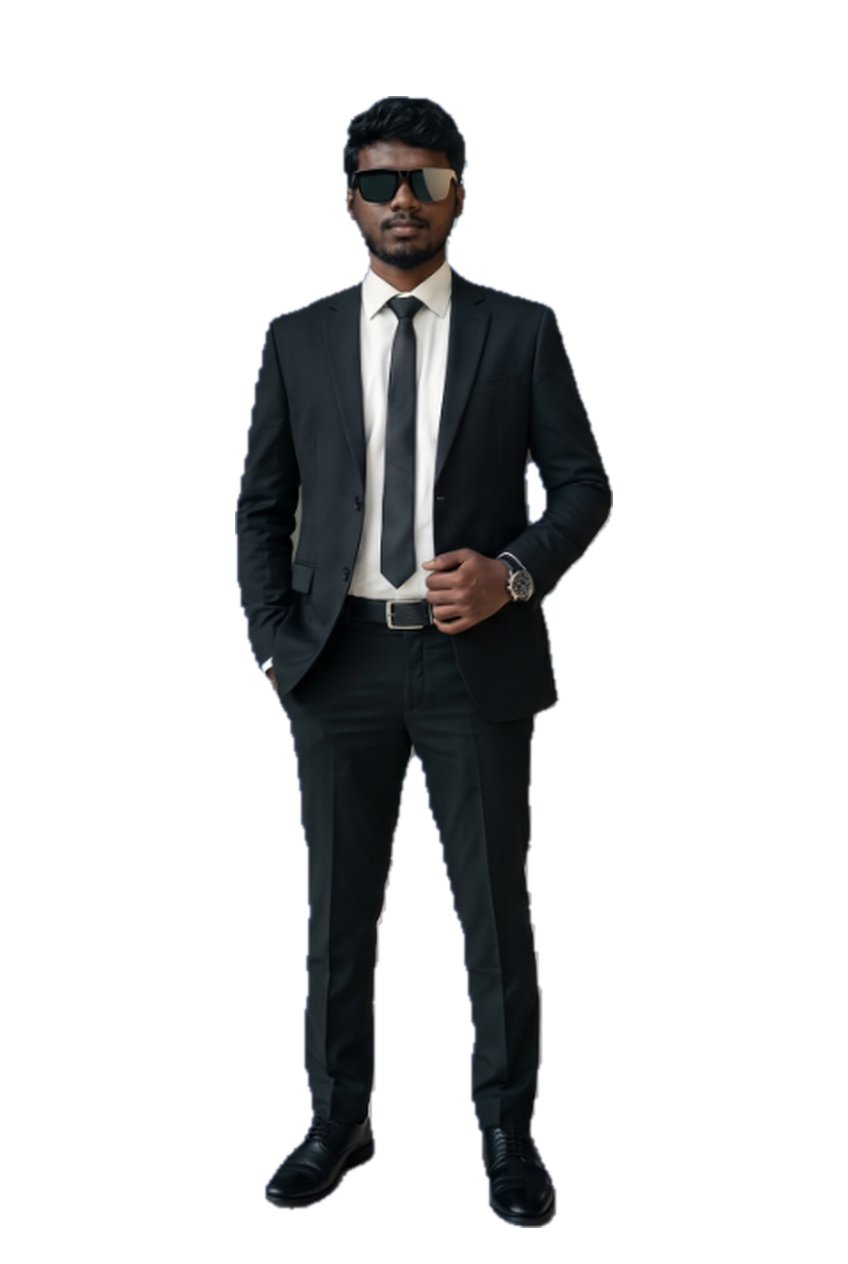
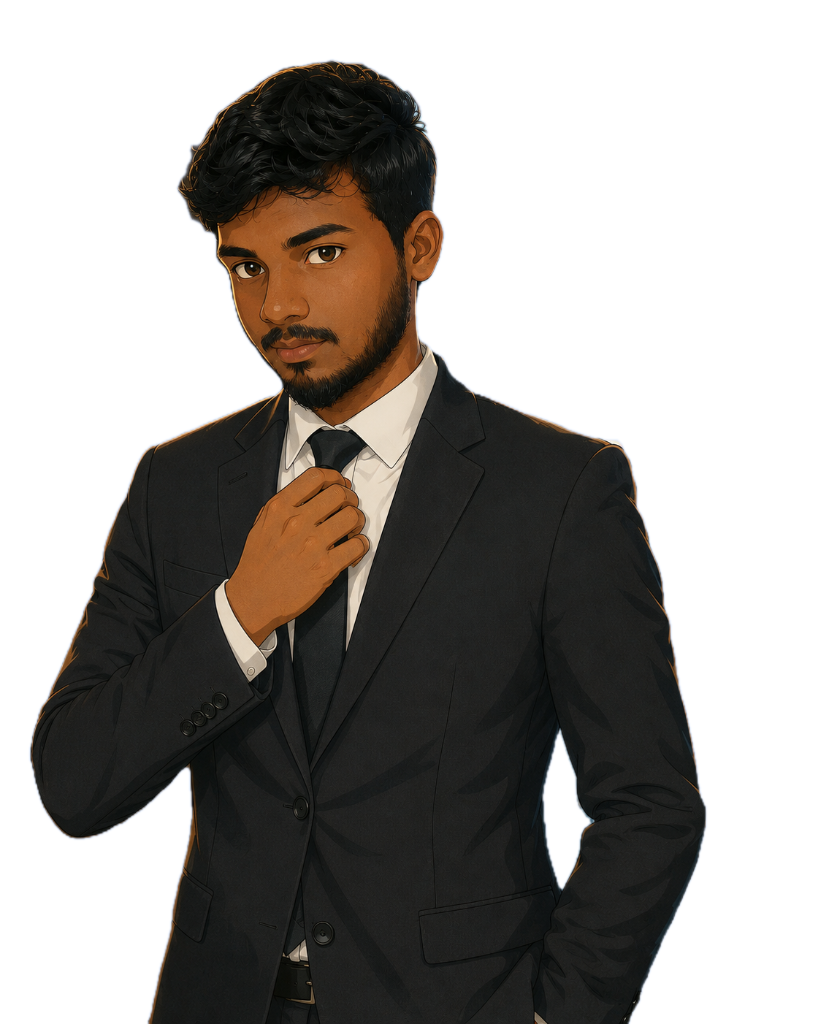
add certificate

diff --git a/sections/Projects.tsx b/sections/Projects.tsx
@@ -2,33 +2,73 @@
 
 import React from 'react';
 import { motion } from 'framer-motion';
-import { ExternalLink, MessageSquare, QrCode, Calculator } from 'lucide-react';
+import { ExternalLink, MessageSquare, QrCode, Calculator, Film, Play, Clock, Waves, GraduationCap, Laptop } from 'lucide-react';
 import { FaGithub } from 'react-icons/fa';
 
 const PROJECTS = [
   {
-    title: 'AI Chatbot for Student Support',
-    desc: 'AI-powered assistant that helps students with instant answers, resources and guidance.',
-    tags: ['Next.js', 'OpenAI API', 'Tailwind CSS'],
-    liveHref: '#',
+    title: 'Student AI Chatbot',
+    desc: 'Conversational AI agent for students, offering quick guidance, reference search, and study guides.',
+    tags: ['Next.js', 'OpenAI API', 'Framer Motion'],
+    liveHref: 'https://thoughtful-text-bot.lovable.app',
     githubHref: 'https://github.com/vikky0076',
     previewType: 'chat',
   },
   {
     title: 'Smart Attendance System',
-    desc: 'QR-based attendance system with location verification and real-time reporting.',
+    desc: 'QR-based smart attendance tracker with secure location verification and real-time statistics.',
     tags: ['React', 'Node.js', 'MongoDB'],
-    liveHref: '#',
+    liveHref: 'https://sas-smart.vercel.app',
     githubHref: 'https://github.com/vikky0076',
     previewType: 'qr',
   },
   {
     title: 'CGPA Calculator',
-    desc: 'Simple and fast CGPA calculator for university students with beautiful UI.',
+    desc: 'Simple and fast CGPA calculator for university students with a beautiful, responsive user interface.',
     tags: ['HTML', 'CSS', 'JavaScript'],
-    liveHref: '#',
+    liveHref: 'https://novyrax-cgpa-calci.vercel.app/',
     githubHref: 'https://github.com/vikky0076',
     previewType: 'calc',
+  },
+  {
+    title: 'Chess Clock System',
+    desc: 'Dynamic digital chess timer supporting custom time controls, delays, and intuitive player controls.',
+    tags: ['React', 'Tailwind CSS', 'Framer Motion'],
+    liveHref: 'https://chess-clock-silk.vercel.app/',
+    githubHref: 'https://github.com/vikky0076',
+    previewType: 'chess',
+  },
+  {
+    title: 'Flood Safe AI System',
+    desc: 'Advanced AI model predicting and warning against flood risks based on hydrological sensor data.',
+    tags: ['Python', 'Machine Learning', 'Next.js'],
+    liveHref: 'https://floot-safe-ai.netlify.app/',
+    githubHref: 'https://github.com/vikky0076',
+    previewType: 'flood',
+  },
+  {
+    title: 'Skillora Learning Website',
+    desc: 'Feature-rich, interactive e-learning platform providing course directories and custom assessments.',
+    tags: ['Next.js', 'Tailwind CSS', 'Firebase'],
+    liveHref: 'https://skilloralearn.vercel.app/',
+    githubHref: 'https://github.com/vikky0076',
+    previewType: 'skillora',
+  },
+  {
+    title: 'Dreams Cut Production Portfolio',
+    desc: 'Highly stylized company showcase website representing a digital production agency.',
+    tags: ['HTML', 'Tailwind CSS', 'JavaScript'],
+    liveHref: 'https://dreamscutproduction.netlify.app/',
+    githubHref: 'https://github.com/vikky0076',
+    previewType: 'dcp',
+  },
+  {
+    title: 'Dynamic & Static Portfolios',
+    desc: 'A repository of interactive responsive developer profiles and single-page landing site layouts.',
+    tags: ['HTML', 'CSS', 'JavaScript'],
+    liveHref: 'https://vikky5376.github.io/portpolio/',
+    githubHref: 'https://github.com/vikky0076',
+    previewType: 'portfolios',
   },
 ];
 
@@ -87,6 +127,113 @@ export default function Projects() {
             </div>
           </div>
         );
+      case 'dcp':
+        return (
+          <div className="w-full h-full bg-secondary/50 rounded-xl border border-white/5 p-3 flex flex-col justify-between overflow-hidden relative">
+            <div className="flex justify-between items-center">
+              <span className="text-[8px] font-bold font-display text-accent uppercase tracking-wider">Dreams Cut Production</span>
+              <Film size={10} className="text-accent" />
+            </div>
+            <div className="flex items-center justify-center gap-4 py-2">
+              <div className="w-8 h-8 rounded-full bg-accent/15 border border-accent/20 flex items-center justify-center text-accent animate-pulse">
+                <Play size={12} fill="currentColor" className="ml-0.5" />
+              </div>
+              <div className="flex flex-col gap-1">
+                <span className="text-[7px] text-white font-semibold">Active Timeline</span>
+                <span className="text-[6px] text-text-secondary">Render: 4K UHD</span>
+              </div>
+            </div>
+            <div className="flex justify-between items-center text-[6px] text-text-secondary">
+              <span>02:14 / 05:00</span>
+              <div className="w-16 h-1 bg-primary rounded-full overflow-hidden">
+                <div className="h-full bg-accent w-[45%]" />
+              </div>
+            </div>
+          </div>
+        );
+      case 'chess':
+        return (
+          <div className="w-full h-full bg-secondary/50 rounded-xl border border-white/5 p-3 flex flex-col justify-between overflow-hidden relative">
+            <div className="flex justify-between items-center border-b border-white/5 pb-1">
+              <span className="text-[8px] font-bold font-display text-white">CHESS TIMERS</span>
+              <Clock size={10} className="text-accent" />
+            </div>
+            <div className="grid grid-cols-2 gap-2 items-center justify-center py-2 text-center">
+              <div className="bg-primary/60 border border-accent/20 rounded-lg p-1.5 flex flex-col">
+                <span className="text-[6px] text-accent uppercase tracking-widest font-bold">White</span>
+                <span className="text-sm font-extrabold font-mono text-white">05:00</span>
+              </div>
+              <div className="bg-accent/10 border border-accent/40 rounded-lg p-1.5 flex flex-col animate-pulse">
+                <span className="text-[6px] text-accent uppercase tracking-widest font-bold">Black</span>
+                <span className="text-sm font-extrabold font-mono text-accent">04:52</span>
+              </div>
+            </div>
+            <span className="text-[6px] text-text-secondary text-center uppercase tracking-widest">Active Turn: Black</span>
+          </div>
+        );
+      case 'flood':
+        return (
+          <div className="w-full h-full bg-secondary/50 rounded-xl border border-white/5 p-3 flex flex-col justify-between overflow-hidden relative">
+            <div className="flex justify-between items-center">
+              <span className="text-[8px] font-bold font-display text-emerald-400 uppercase tracking-wider">Flood Safe AI</span>
+              <Waves size={10} className="text-emerald-400" />
+            </div>
+            <div className="flex flex-col gap-1 items-center justify-center py-1">
+              <span className="text-xl font-extrabold font-display text-emerald-400 glow-emerald">SAFE</span>
+              <span className="text-[6px] uppercase tracking-widest text-text-secondary">Water Level: 1.2m</span>
+            </div>
+            <div className="flex justify-between items-center text-[6px] text-text-secondary">
+              <span>Risk Level: 5%</span>
+              <div className="w-16 h-1 bg-primary rounded-full overflow-hidden">
+                <div className="h-full bg-emerald-500 w-[5%]" />
+              </div>
+            </div>
+          </div>
+        );
+      case 'skillora':
+        return (
+          <div className="w-full h-full bg-secondary/50 rounded-xl border border-white/5 p-3 flex flex-col justify-between overflow-hidden relative">
+            <div className="flex justify-between items-center border-b border-white/5 pb-1">
+              <span className="text-[8px] font-bold font-display text-white">Skillora LMS</span>
+              <GraduationCap size={10} className="text-accent" />
+            </div>
+            <div className="flex flex-col gap-1.5 py-1 text-left">
+              <div className="flex justify-between text-[7px] text-text-secondary font-semibold">
+                <span>React Advanced Course</span>
+                <span className="text-accent font-bold">85% Done</span>
+              </div>
+              <div className="w-full h-1 bg-primary rounded-full overflow-hidden">
+                <div className="h-full bg-accent w-[85%]" />
+              </div>
+            </div>
+            <div className="flex items-center gap-1.5 bg-primary/40 border border-white/5 rounded px-2 py-0.5 self-start">
+              <span className="w-1 h-1 rounded-full bg-accent animate-pulse" />
+              <span className="text-[6px] text-text-secondary">Next Assessment: Routing</span>
+            </div>
+          </div>
+        );
+      case 'portfolios':
+        return (
+          <div className="w-full h-full bg-secondary/50 rounded-xl border border-white/5 p-3 flex flex-col justify-between overflow-hidden relative">
+            <div className="flex justify-between items-center">
+              <span className="text-[8px] font-bold font-display text-white uppercase tracking-wider">Theme Showcase</span>
+              <Laptop size={10} className="text-accent" />
+            </div>
+            <div className="bg-primary/60 border border-white/5 rounded-lg p-2 flex items-center gap-2">
+              <div className="w-5 h-5 rounded-full bg-accent/20 border border-accent/40 flex items-center justify-center text-[8px] font-extrabold text-accent">
+                VB
+              </div>
+              <div className="flex flex-col gap-0.5 min-w-0 flex-1">
+                <div className="h-1 bg-white/20 rounded w-16" />
+                <div className="h-1 bg-white/10 rounded w-24" />
+              </div>
+            </div>
+            <div className="flex justify-between text-[6px] text-text-secondary uppercase tracking-widest">
+              <span>Static Dev Theme</span>
+              <span className="text-accent">Active</span>
+            </div>
+          </div>
+        );
       default:
         return null;
     }
@@ -124,37 +271,47 @@ export default function Projects() {
               transition={{ duration: 0.5, delay: idx * 0.1 }}
               className="glass-card rounded-3xl p-6 flex flex-col justify-between relative group hover:scale-[1.02] duration-300"
             >
-              {/* Mockup Preview Area */}
-              <div className="w-full h-[180px] rounded-2xl overflow-hidden mb-6 bg-primary/20 border border-white/5 flex items-center justify-center p-3 relative">
-                {renderPreview(proj.previewType)}
-              </div>
-
-              {/* Text Details */}
-              <div className="flex flex-col text-left flex-grow mb-6">
-                <h3 className="text-lg font-bold font-display text-white mb-2 group-hover:text-accent transition-colors duration-300">
-                  {proj.title}
-                </h3>
-                <p className="text-xs sm:text-sm text-text-secondary leading-relaxed font-sans mb-4">
-                  {proj.desc}
-                </p>
-
-                {/* Tech Tags */}
-                <div className="flex flex-wrap gap-2 mt-auto">
-                  {proj.tags.map((tag, tIdx) => (
-                    <span
-                      key={tIdx}
-                      className="text-[10px] px-3 py-1 rounded-lg bg-secondary border border-white/5 text-text-secondary font-medium"
-                    >
-                      {tag}
-                    </span>
-                  ))}
+              {/* Clickable Card Body linking to Live Site */}
+              <a
+                href={proj.liveHref}
+                target="_blank"
+                rel="noopener noreferrer"
+                className="flex flex-col flex-grow cursor-pointer"
+              >
+                {/* Mockup Preview Area */}
+                <div className="w-full h-[180px] rounded-2xl overflow-hidden mb-6 bg-primary/20 border border-white/5 flex items-center justify-center p-3 relative">
+                  {renderPreview(proj.previewType)}
                 </div>
-              </div>
+
+                {/* Text Details */}
+                <div className="flex flex-col text-left flex-grow mb-6">
+                  <h3 className="text-lg font-bold font-display text-white mb-2 group-hover:text-accent transition-colors duration-300">
+                    {proj.title}
+                  </h3>
+                  <p className="text-xs sm:text-sm text-text-secondary leading-relaxed font-sans mb-4">
+                    {proj.desc}
+                  </p>
+
+                  {/* Tech Tags */}
+                  <div className="flex flex-wrap gap-2 mt-auto">
+                    {proj.tags.map((tag, tIdx) => (
+                      <span
+                        key={tIdx}
+                        className="text-[10px] px-3 py-1 rounded-lg bg-secondary border border-white/5 text-text-secondary font-medium"
+                      >
+                        {tag}
+                      </span>
+                    ))}
+                  </div>
+                </div>
+              </a>
 
               {/* Action Buttons */}
-              <div className="flex gap-3 w-full">
+              <div className="flex gap-3 w-full relative z-10">
                 <a
                   href={proj.liveHref}
+                  target="_blank"
+                  rel="noopener noreferrer"
                   className="flex-1 text-center text-xs uppercase tracking-widest font-bold py-3 bg-accent/10 border border-accent/25 hover:bg-accent hover:text-white text-accent rounded-xl transition-all duration-300 flex items-center justify-center gap-1.5"
                 >
                   Live Demo <ExternalLink size={12} />

diff --git a/components/ContactModal.tsx b/components/ContactModal.tsx
@@ -83,36 +83,25 @@ export default function ContactModal() {
     setFormState('submitting');
     setSubmitError(null);
 
-    // Timeout helper to prevent infinite loading state
-    function promiseWithTimeout<T>(promise: Promise<T>, ms: number): Promise<T> {
-      return new Promise<T>((resolve, reject) => {
-        const timer = setTimeout(() => reject(new Error('timeout')), ms);
-        promise
-          .then((res) => {
-            clearTimeout(timer);
-            resolve(res);
-          })
-          .catch((err) => {
-            clearTimeout(timer);
-            reject(err);
-          });
-      });
-    }
-
     try {
-      // Save submission inside Firestore contact_messages collection with a 7-second timeout limit
-      await promiseWithTimeout(
-        addDoc(collection(db, 'contact_messages'), {
-          name: formData.name,
-          email: formData.email,
-          subject: formData.subject,
-          message: formData.message,
-          createdAt: serverTimestamp(),
-          status: 'New',
-          userId: user?.uid || null,
-        }),
-        7000
-      );
+      // Save submission inside Firestore contact_messages collection.
+      // With local persistence enabled, Firestore writes update the local cache immediately and sync in the background.
+      const docRefPromise = addDoc(collection(db, 'contact_messages'), {
+        name: formData.name,
+        email: formData.email,
+        subject: formData.subject,
+        message: formData.message,
+        createdAt: serverTimestamp(),
+        status: 'New',
+        userId: user?.uid || null,
+      });
+
+      // We wait up to 2 seconds for server acknowledgment. If it takes longer (slow connection/offline),
+      // we proceed to the success view anyway and let Firestore sync in the background.
+      await Promise.race([
+        docRefPromise,
+        new Promise((resolve) => setTimeout(resolve, 2000))
+      ]);
 
       setFormState('success');
       setFormData({ name: '', email: '', subject: '', message: '' });
@@ -125,11 +114,7 @@ export default function ContactModal() {
     } catch (err: any) {
       console.error('Error submitting contact form:', err);
       setFormState('idle');
-      if (err.message === 'timeout') {
-        setSubmitError('Connection timed out. Please check your internet connection or try again.');
-      } else {
-        setSubmitError(err.message || 'Failed to transmit message. Please verify your connection.');
-      }
+      setSubmitError(err.message || 'Failed to transmit message. Please verify your connection.');
     }
   };
 

diff --git a/sections/Certificates.tsx b/sections/Certificates.tsx
@@ -5,6 +5,15 @@ import { motion } from 'framer-motion';
 import { Award, ExternalLink } from 'lucide-react';
 
 const CERTIFICATES = [
+  { name: 'AI for Sustainability Virtual Internship', issuer: '1M1B & IBM SkillsBuild', href: 'https://skillsbuild.org/' },
+  { name: 'Fundamentals of Sustainability and Technology', issuer: 'IBM SkillsBuild', href: 'https://skillsbuild.org/' },
+  { name: 'AI Skills Passport', issuer: 'EY & Microsoft', href: 'https://learn.microsoft.com/en-us/credentials/' },
+  { name: 'Data Analysis with Python', issuer: 'Cognitive Class (IBM)', href: 'https://courses.cognitiveclass.ai/certificates/425a8905a59c47ebb5a619ec72374a9c' },
+  { name: 'Exploring Data Transformation with Google Cloud', issuer: 'Google Cloud', href: 'https://grow.google/' },
+  { name: 'Digital Skills: User Experience', issuer: 'Accenture', href: 'https://www.futurelearn.com/certificates/ioscxbf' },
+  { name: 'Programming with Python 3.X', issuer: 'Simplilearn', href: 'https://simplilearn.com' },
+  { name: 'Introduction to Generative AI', issuer: 'Google Cloud', href: 'https://grow.google/' },
+  { name: 'Introduction to Prompt Engineering', issuer: 'Simplilearn', href: 'https://simplilearn.com' },
   { name: 'Python for Data Science', issuer: 'IBM', href: 'https://credentials.edx.org/' },
   { name: 'AI Fundamentals', issuer: 'Microsoft', href: 'https://learn.microsoft.com/en-us/credentials/' },
   { name: 'Azure Fundamentals', issuer: 'Microsoft', href: 'https://learn.microsoft.com/en-us/credentials/' },

diff --git a/context/AuthContext.tsx b/context/AuthContext.tsx
@@ -149,7 +149,8 @@ export function AuthProvider({ children }: { children: React.ReactNode }) {
         if (email) {
           try {
             const result = await signInWithEmailLink(auth, email, window.location.href);
-            await syncUserToFirestore(result.user);
+            // Sync user metadata to Firestore in the background
+            syncUserToFirestore(result.user);
             window.localStorage.removeItem('emailForSignIn');
             
             // Clean URL query parameters
@@ -168,7 +169,8 @@ export function AuthProvider({ children }: { children: React.ReactNode }) {
     const unsubscribe = onAuthStateChanged(auth, async (currentUser) => {
       if (currentUser) {
         setUser(currentUser);
-        await syncUserToFirestore(currentUser);
+        // Sync user metadata to Firestore in the background without blocking the UI loading state
+        syncUserToFirestore(currentUser);
       } else {
         setUser(null);
       }
